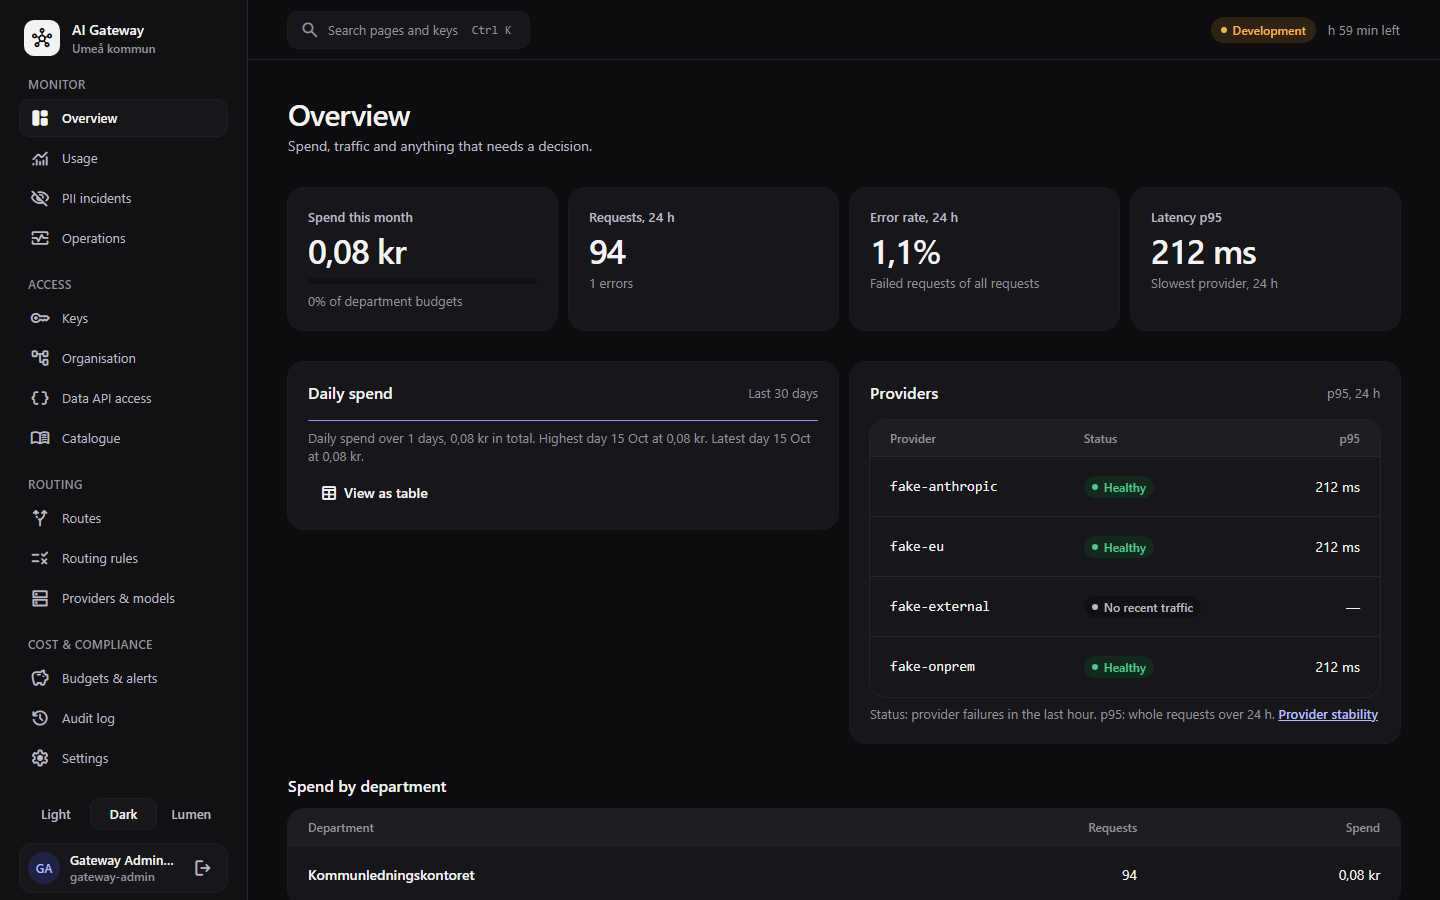
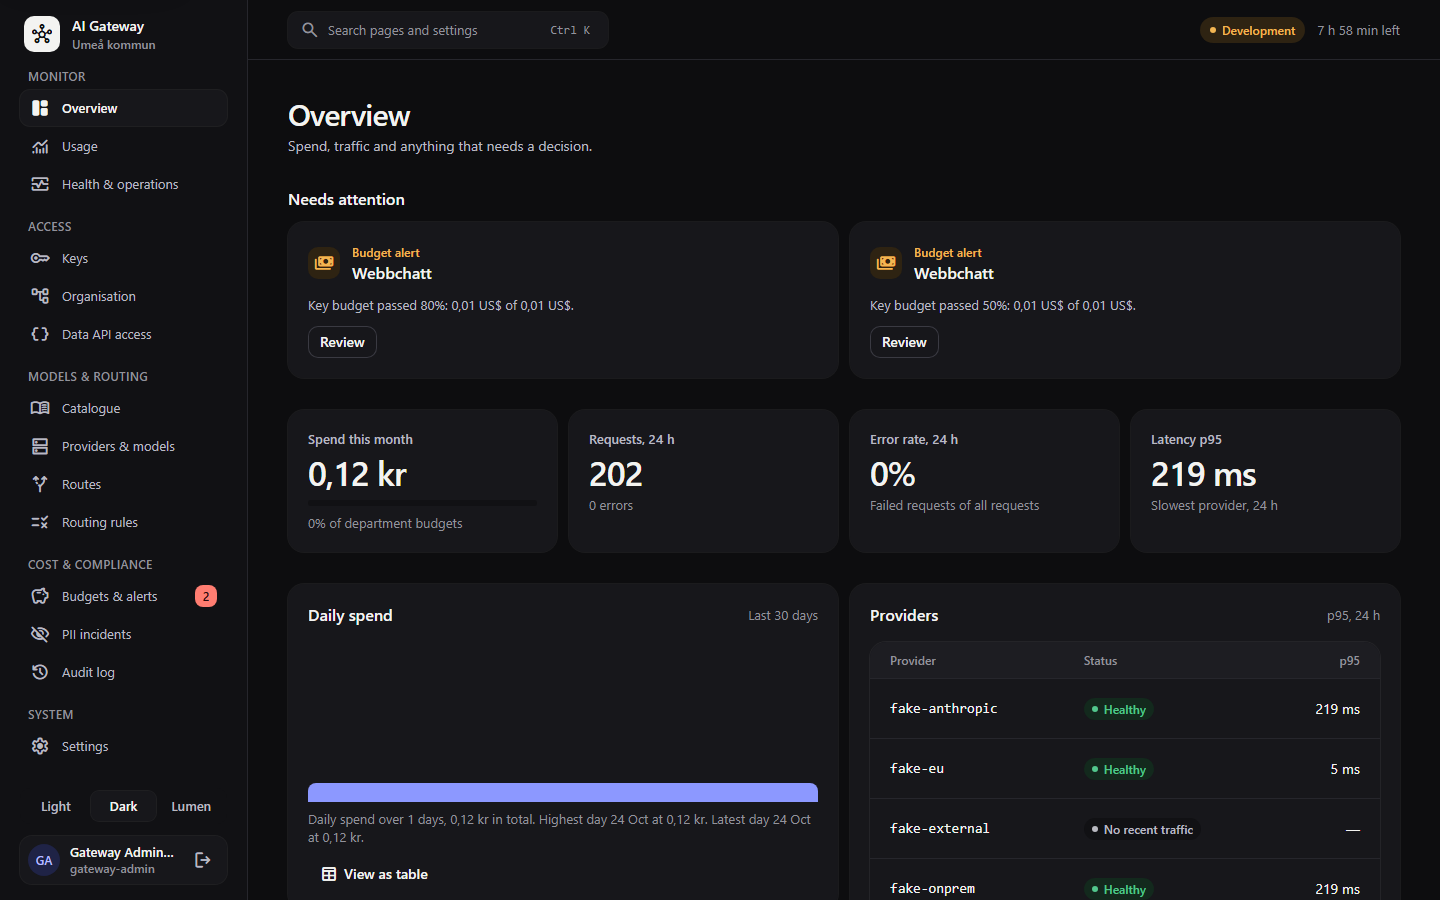
Retake screenshots with the new menu; fix crowded chart time labels
- Website (site/public/screenshots) and routing guide (docs/images)
  screenshots retaken from a fresh test stack, in all three themes.
- Usage charts: the middle time label is left out when the chart is too
  narrow, so the labels no longer run together.
- Overview circuit alert button says "Open Health & operations", as the
  page is now called.
- Screenshot scripts: exact match for "New rule" (a "New rule from
  template" button was added); the budget is topped up with successful
  requests until it is past its 80 % alert, so Budgets shows an alert.

diff --git a/src/admin-ui/src/components/usage/TimeSeriesChart.spec.ts b/src/admin-ui/src/components/usage/TimeSeriesChart.spec.ts
@@ -1,5 +1,5 @@
-import { describe, expect, it } from 'vitest'
-import { mount } from '@vue/test-utils'
+import { afterEach, describe, expect, it } from 'vitest'
+import { flushPromises, mount } from '@vue/test-utils'
 import TimeSeriesChart, { type ChartSeries } from './TimeSeriesChart.vue'
 
 const slots = [Date.UTC(2026, 9, 1), Date.UTC(2026, 9, 2), Date.UTC(2026, 9, 3)]
@@ -45,5 +45,35 @@ describe('TimeSeriesChart', () => {
       ['2026-10-02', '0 req', '—'],
       ['2026-10-03', '30 req', '0 req'],
     ])
+  })
+  describe('time labels', () => {
+    const days = Array.from({ length: 24 }, (_, i) => Date.UTC(2026, 9, 23, 16) + i * 3_600_000)
+    const hourly = [{ ...series[0]!, values: days.map(() => 1) }]
+    const label = (ms: number) => new Date(ms).toISOString().slice(5, 16).replace('T', ' ')
+    const original = globalThis.ResizeObserver
+    // The test setup's stub never reports a size; this one reports the plot as `px` wide.
+    const plotWidth = (px: number) => {
+      globalThis.ResizeObserver = class {
+        constructor(private callback: ResizeObserverCallback) {}
+        observe() { this.callback([{ contentRect: { width: px } } as ResizeObserverEntry], this as unknown as ResizeObserver) }
+        unobserve() {}
+        disconnect() {}
+      }
+    }
+    const texts = async (px: number) => {
+      plotWidth(px)
+      const wrapper = render({ slots: days, series: hourly, formatSlot: label })
+      await flushPromises()
+      return wrapper.findAll('.ml-16 span').map((s) => s.text())
+    }
+    afterEach(() => { globalThis.ResizeObserver = original })
+
+    it('shows the first, middle and last time when there is room', async () => {
+      expect(await texts(600)).toEqual(['10-23 16:00', '10-24 03:00', '10-24 15:00'])
+    })
+
+    it('leaves out the middle time on a narrow chart, so the labels do not run together', async () => {
+      expect(await texts(200)).toEqual(['10-23 16:00', '10-24 15:00'])
+    })
   })
 })

diff --git a/tests/e2e/docs/screenshots.spec.ts b/tests/e2e/docs/screenshots.spec.ts
@@ -31,8 +31,8 @@ test('routing example screenshots', async ({ page }) => {
 
   // 1. Fallback to another model when the main model does not answer.
   await ready(page, '/routing-rules')
-  await page.getByRole('button', { name: 'New rule' }).click()
-  let drawer = page.getByRole('dialog', { name: 'New rule' })
+  await page.getByRole('button', { name: 'New rule', exact: true }).click()
+  let drawer = page.getByRole('dialog', { name: 'New rule', exact: true })
   await drawer.getByLabel('Title', { exact: true }).fill(FALLBACK)
   await drawer.getByLabel('Description').fill('If ume/chat-advanced does not answer, use ume/chat-standard.')
   await drawer.locator('#rule-condition').fill('model == "ume/chat-advanced"')
@@ -51,8 +51,8 @@ test('routing example screenshots', async ({ page }) => {
   await page.screenshot({ path: `${images}/routing-fallback-rule.png`, clip: { x: 0, y: 0, width: 1280, height: 860 } })
 
   // 2. Personal data stays on-prem.
-  await page.getByRole('button', { name: 'New rule' }).click()
-  drawer = page.getByRole('dialog', { name: 'New rule' })
+  await page.getByRole('button', { name: 'New rule', exact: true }).click()
+  drawer = page.getByRole('dialog', { name: 'New rule', exact: true })
   await drawer.getByLabel('Title', { exact: true }).fill(PII)
   await drawer.getByLabel('Description').fill('Chats that contain personal data only go to our own servers. No fallbacks, so they never leave.')
   await drawer.locator('#rule-condition').fill('pii_detected && endpoint == "chat_completions"')

diff --git a/tests/e2e/docs/website.spec.ts b/tests/e2e/docs/website.spec.ts
@@ -65,7 +65,21 @@ test('website screenshots', async ({ page }) => {
     }, { timeout: 30_000 }).toBeGreaterThan(0)
     const limit = Math.max(0.01, Math.round(spent / 0.85 * 100) / 100)
     expect((await put(page, `/api/budgets/${budget.id}`, { ...budget, limitUsd: limit })).status()).toBe(200)
-    for (let i = 0; i < 4; i++) await chat(i * 2 + 1)
+    // The fake LLM is cheap, so the smallest limit (0.01 US$) can be more than 85 % of what was spent: send web chat
+    // requests until the budget is past its 80 % alert level, and stop well before it runs out.
+    const topUp = () => page.request.post(`${catalogue.gatewayBaseUrl}/v1/chat/completions`, {
+      headers: { Authorization: `Bearer ${keys[1].secret}` },
+      data: { model: 'ume/chat-standard', messages: [{ role: 'user', content: 'Sammanfatta ärendet' }], max_tokens: 256 },
+    })
+    for (let round = 0; round < 60 && spent < limit * 0.82; round++) {
+      const statuses = await Promise.all([0, 1, 2, 3].map(async () => (await topUp()).status()))
+      expect(statuses, 'top-up requests succeed').toEqual([200, 200, 200, 200])
+      await page.waitForTimeout(1200)
+      const budgets: Budget[] = await (await page.request.get('/api/budgets?scope=VirtualKey')).json()
+      spent = budgets.find(b => b.id === budget.id)?.spentUsd ?? spent
+    }
+    expect(spent).toBeGreaterThan(limit * 0.8)
+    expect(spent).toBeLessThan(limit)
 
     for (const theme of themes) {
       // Overview, 1440 x 900 (the hero image).

diff --git a/src/admin-ui/src/components/usage/TimeSeriesChart.vue b/src/admin-ui/src/components/usage/TimeSeriesChart.vue
@@ -172,7 +172,10 @@ const xLabels = computed(() => {
   const n = props.slots.length
   if (n === 0) return []
   const picks = n === 1 ? [0] : n < 5 ? [0, n - 1] : [0, Math.floor((n - 1) / 2), n - 1]
-  return picks.map((i) => ({ i, left: (center(i) / width.value) * 100, text: props.formatSlot(props.slots[i]!) }))
+  const labels = picks.map((i) => ({ i, left: (center(i) / width.value) * 100, text: props.formatSlot(props.slots[i]!) }))
+  // A narrow chart (a card in a three-column row) has no room for the middle label: about 7 px per character plus a gap.
+  const needed = labels.reduce((sum, l) => sum + l.text.length * 7 + 16, 0)
+  return labels.length === 3 && needed > width.value ? [labels[0]!, labels[2]!] : labels
 })
 </script>
 

diff --git a/src/admin-ui/src/views/OverviewView.vue b/src/admin-ui/src/views/OverviewView.vue
@@ -118,7 +118,7 @@ const providerRows = computed(() => ops.health?.providers.filter((p) => p.isEnab
           tone="danger"
           :title="provider.name"
           body="Requests are not sent to this provider until the circuit closes."
-          action="Open operations"
+          action="Open Health &amp; operations"
           @action="router.push({ name: 'ops' })"
         />
       </div>

diff --git a/CHANGELOG.md b/CHANGELOG.md
@@ -24,7 +24,9 @@ cards and tabs inside pages and everyday words (*retention*, *circuit*, *departm
 full screen on phones. On phones a **Menu** tab opens every page, the theme, the session and **Sign out**, and the end of
 a page is no longer hidden behind the bottom bar. Fixes: the session timer lost its hours ("h 34 min left"), the "Skip to
 main content" link showed over the header on phones, and the daily spend and provider stability charts had no height
-(Tailwind classes using spacing steps that did not exist produced no CSS). See [Admin UI](docs/admin-ui.md#finding-your-way).
+(Tailwind classes using spacing steps that did not exist produced no CSS). The time labels under narrow
+charts (the Usage cards) no longer run together, and the Overview circuit alert says *Open Health & operations*.
+Screenshots on the website and in `docs/images` are retaken with the new menu. See [Admin UI](docs/admin-ui.md#finding-your-way).
 
 ## 0.7.1 - 2026-10-23
 
